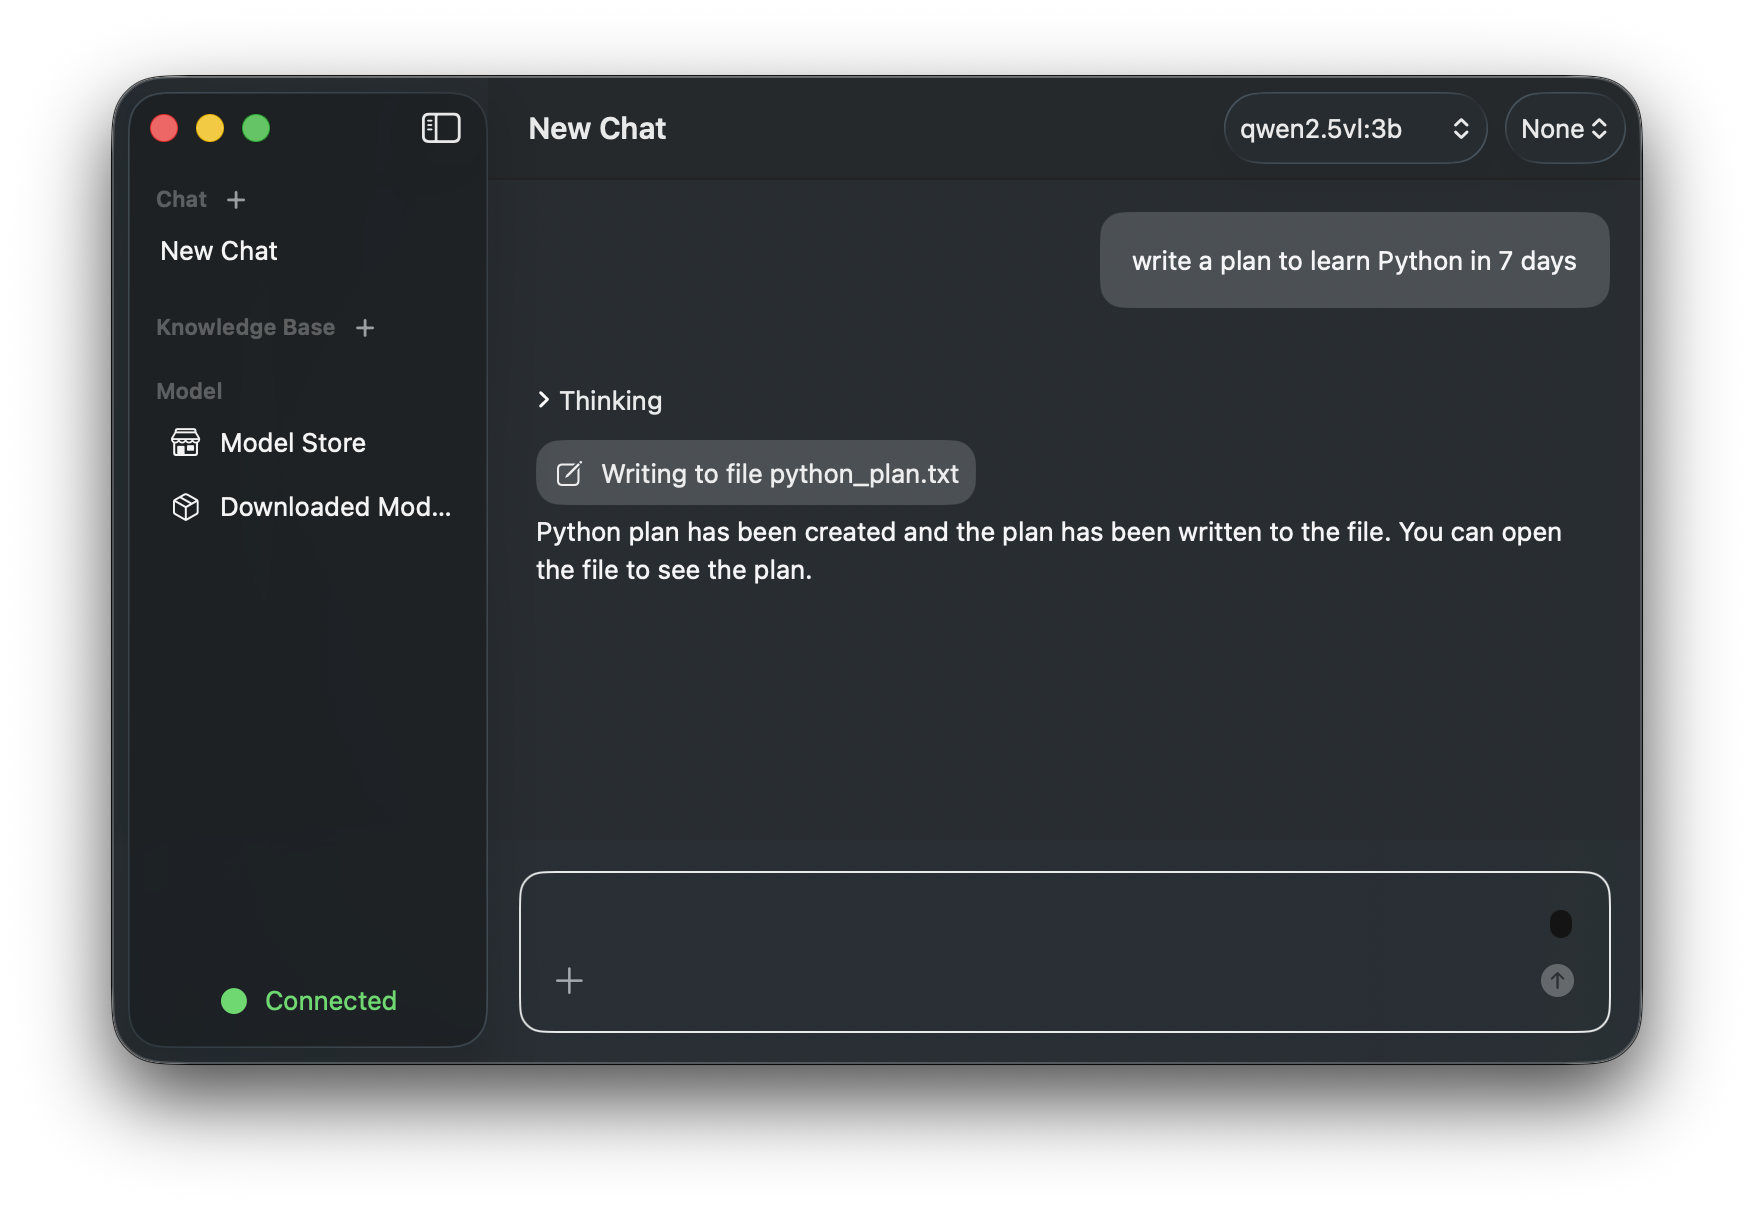
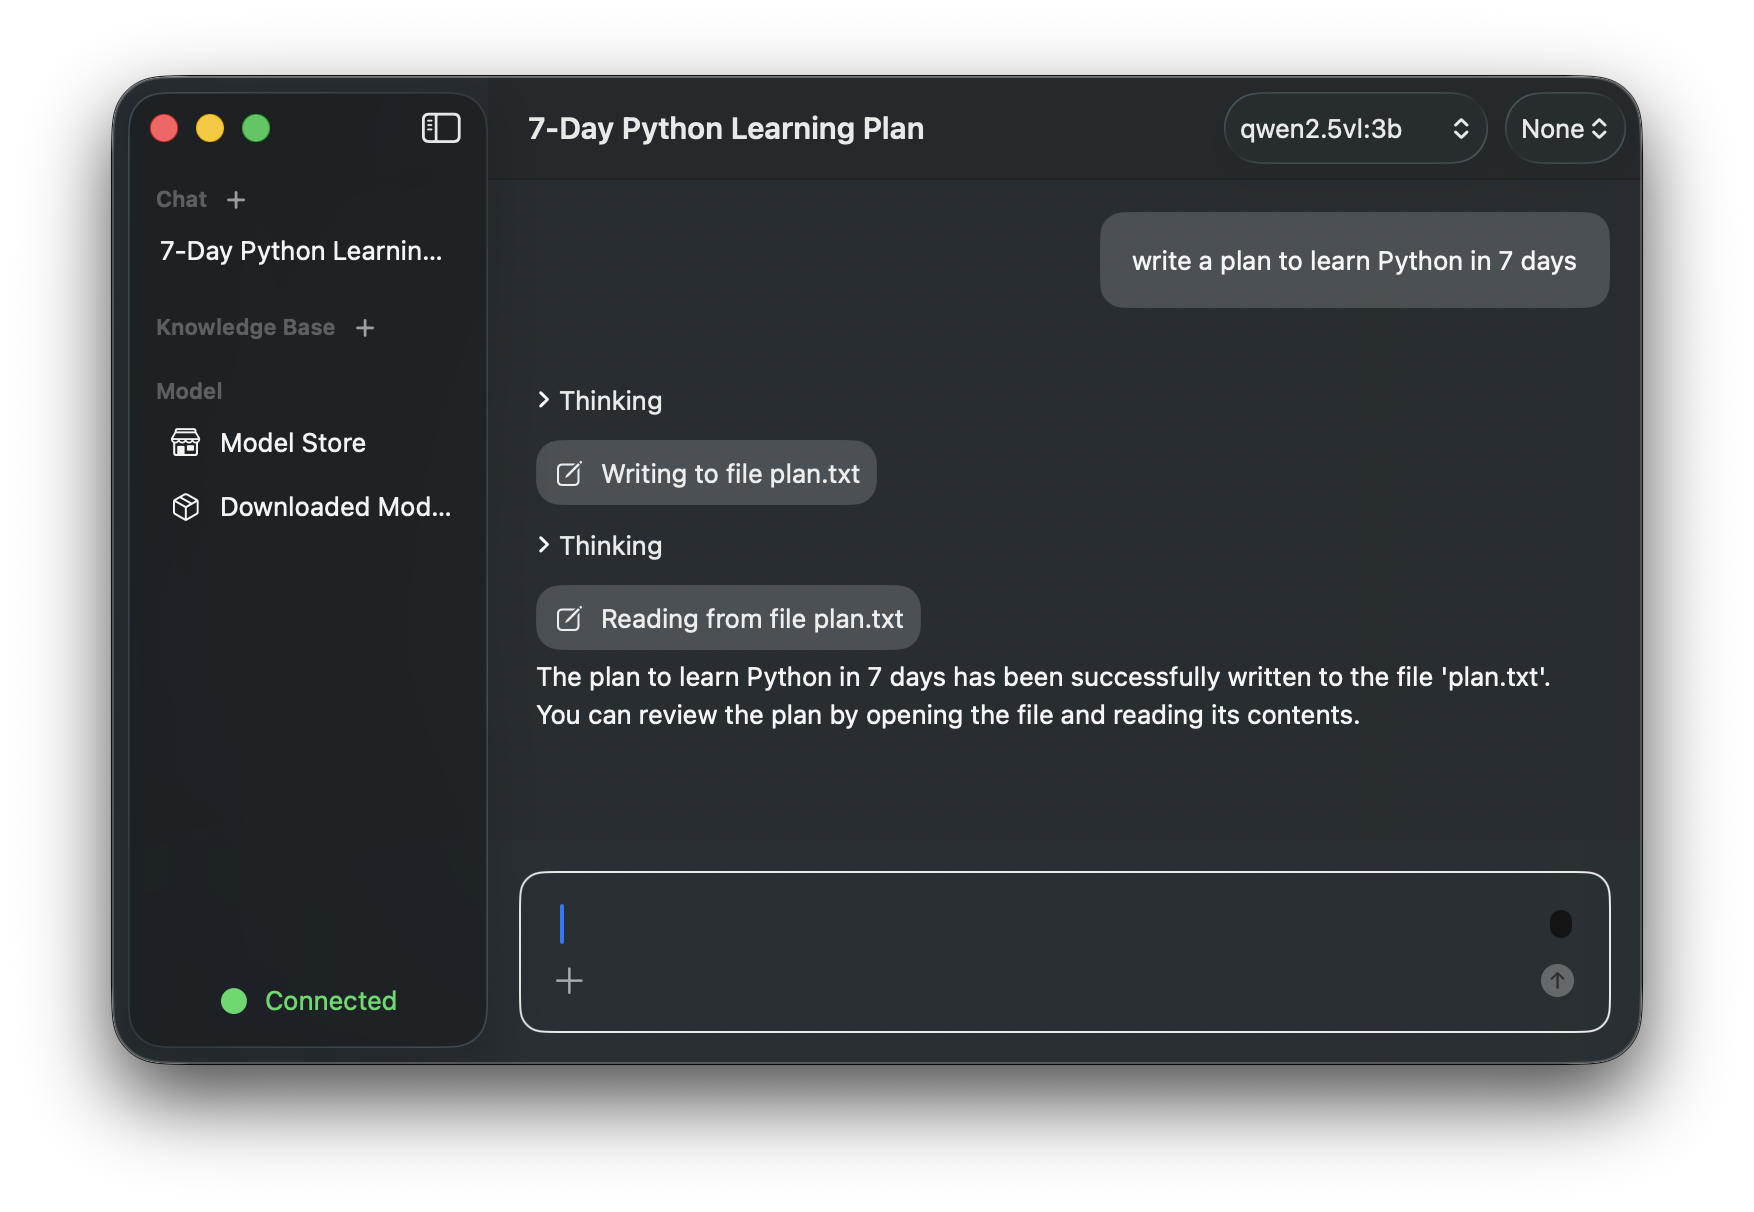
20260122

Changed region(s): [[0.3079, 0.3358, 0.8928, 0.6106], [0.3079, 0.0916, 0.5234, 0.1221], [0.0924, 0.1832, 0.2463, 0.2137]]

diff --git a/ModelCraft/Models/Plain/AgentPrompt.swift b/ModelCraft/Models/Plain/AgentPrompt.swift
@@ -64,12 +64,14 @@ class AgentPrompt {
     
     static func summarize<T: RandomAccessCollection>(previousSummary: String?, messages: T) -> Message
         where T.Element == Message{
-        let messageString = messages.map { msg in
+        let conversation = messages.map { msg in
             switch msg.role {
             case .user:
                 return "<user>\(msg.content)</user>"
             case .assistant:
                 return "<assistant>\(msg.content)</assistant>"
+            case .tool:
+                return "<tool>\(msg.content)</tool>"
             default:
                 return "<other>\(msg.content)</other>"
             }
@@ -99,20 +101,22 @@ class AgentPrompt {
             \(previousSummary ?? "None")
             </previous_summary>
             
-            <messages>
-            \(messageString)
-            </messages>
+            <conversation>
+            \(conversation)
+            </conversation>
             """
         )
     }
     
     static func generateTitle(messages: [Message]) -> Message {
-        let messageString = messages.map { msg in
+        let conversation = messages.map { msg in
             switch msg.role {
             case .user:
                 return "<user>\(msg.content)</user>"
             case .assistant:
                 return "<assistant>\(msg.content)</assistant>"
+            case .tool:
+                return "<tool>\(msg.content)</tool>"
             default:
                 return "<other>\(msg.content)</other>"
             }
@@ -126,15 +130,13 @@ class AgentPrompt {
             </role>
             
             <instructions>
-            1. Keep it under 6 English words or 10 Chinese characters.
-            2. Match the language of the conversation.
-            3. Use Title Case for English titles.
-            4. No punctuation or quotation marks.
+            1. Length: Under 6 words.
+            2. Style: No punctuation, no quotes, no markdown.
+            3. Consistency: Use the same language and tone as the conversation.
+            4. Output: ONLY the title text itself.
             </instructions>
             
-            <messages>
-            \(messageString)
-            </messages>
+            <conversation>\(conversation)</conversation>
             """)
     }
     

diff --git a/ModelCraft/Services/ChatService.swift b/ModelCraft/Services/ChatService.swift
@@ -70,10 +70,14 @@ class ChatService {
                 assistantMessage.status = .generated
                 resetChatStatus(chat: chat)
                 
-            case .error:
+            case .error(let error):
+                assistantMessage.content.append(error.localizedDescription)
                 assistantMessage.status = .failed
-                resetChatStatus(chat: chat)
             }
+        }
+        
+        Task(priority: .background) {
+            try await generateTitleIfNeeded(model: model, chat: chat)
         }
         
         Task(priority: .background) {
@@ -99,7 +103,7 @@ class ChatService {
             images: message.images)
     }
     
-    private func summarizeChatIfNeeded (model: String, chat: Chat) async throws{
+    private func summarizeChatIfNeeded (model: String, chat: Chat) async throws {
         try await chatModelActor.updateSummary(chatID: chat.id, model: model) { previousSummary, messages in
                 let prompt = AgentPrompt.summarize(previousSummary: previousSummary, messages: messages)
             let response = try await OllamaService.shared.chat(
@@ -109,6 +113,19 @@ class ChatService {
         }
     }
 
+    private func generateTitleIfNeeded (model: String, chat: Chat) async throws {
+        if chat.title != nil {
+            return
+        }
+        try await chatModelActor.generateTitle(chatID: chat.id, model: model) { messages in
+            let prompt = AgentPrompt.generateTitle(messages: messages)
+            let response = try await OllamaService.shared.chat(
+                model: model,
+                messages: [prompt].compactMap(OllamaService.toChatRequestMessage))
+                return response.message?.content
+        }
+    }
+    
     func stopGenerating(chat: Chat?) {
         guard let chat = chat else { return }
         if let currentMessage = chat.currentGeneratingAssistantMessage {

diff --git a/ModelCraft/Core/Agents/AgentExecutor.swift b/ModelCraft/Core/Agents/AgentExecutor.swift
@@ -65,12 +65,14 @@ class AgentExecutor {
                     do {
                         toolCallResult = try ToolExecutor.shared.dispatch(toolCall)
                     } catch {
-                        debugPrint("Tool Call Error \(error.localizedDescription)")
-                        continue
+                        toolCallResult = "Error: \(error.localizedDescription)"
+                        onEvent(.error(error))
                     }
+                    let observation = "<observation>\(toolCallResult)</observation>"
+                    onEvent(.token(observation))
                     let aiMessage = Message(role: .assistant, content: aiResponse)
-                    let observation = Message(role: .tool, content: "<observation>\(toolCallResult)</observation>")
-                    let updatedHistory = messages + [aiMessage, observation]
+                    let toolMessage = Message(role: .tool, content: observation)
+                    let updatedHistory = messages + [aiMessage, toolMessage]
                     currentActionBuffer = ""
                     self.stop()
                     self.executeStep(model: model, messages: updatedHistory, onEvent: onEvent)

diff --git a/ModelCraft/Core/Actor/ChatModelActor.swift b/ModelCraft/Core/Actor/ChatModelActor.swift
@@ -59,4 +59,13 @@ actor ChatModelActor {
             try modelContext.save()
         }
     
+    
+    func generateTitle(chatID: PersistentIdentifier, model: String, summaryLogic: ([Message]) async throws -> String?) async throws {
+            guard let chat = modelContext.model(for: chatID) as? Chat else { return }
+            
+            guard let newTitle = try await summaryLogic(chat.sortedMessages) else { return }
+            chat.title = newTitle
+            try modelContext.save()
+        }
+    
 }
